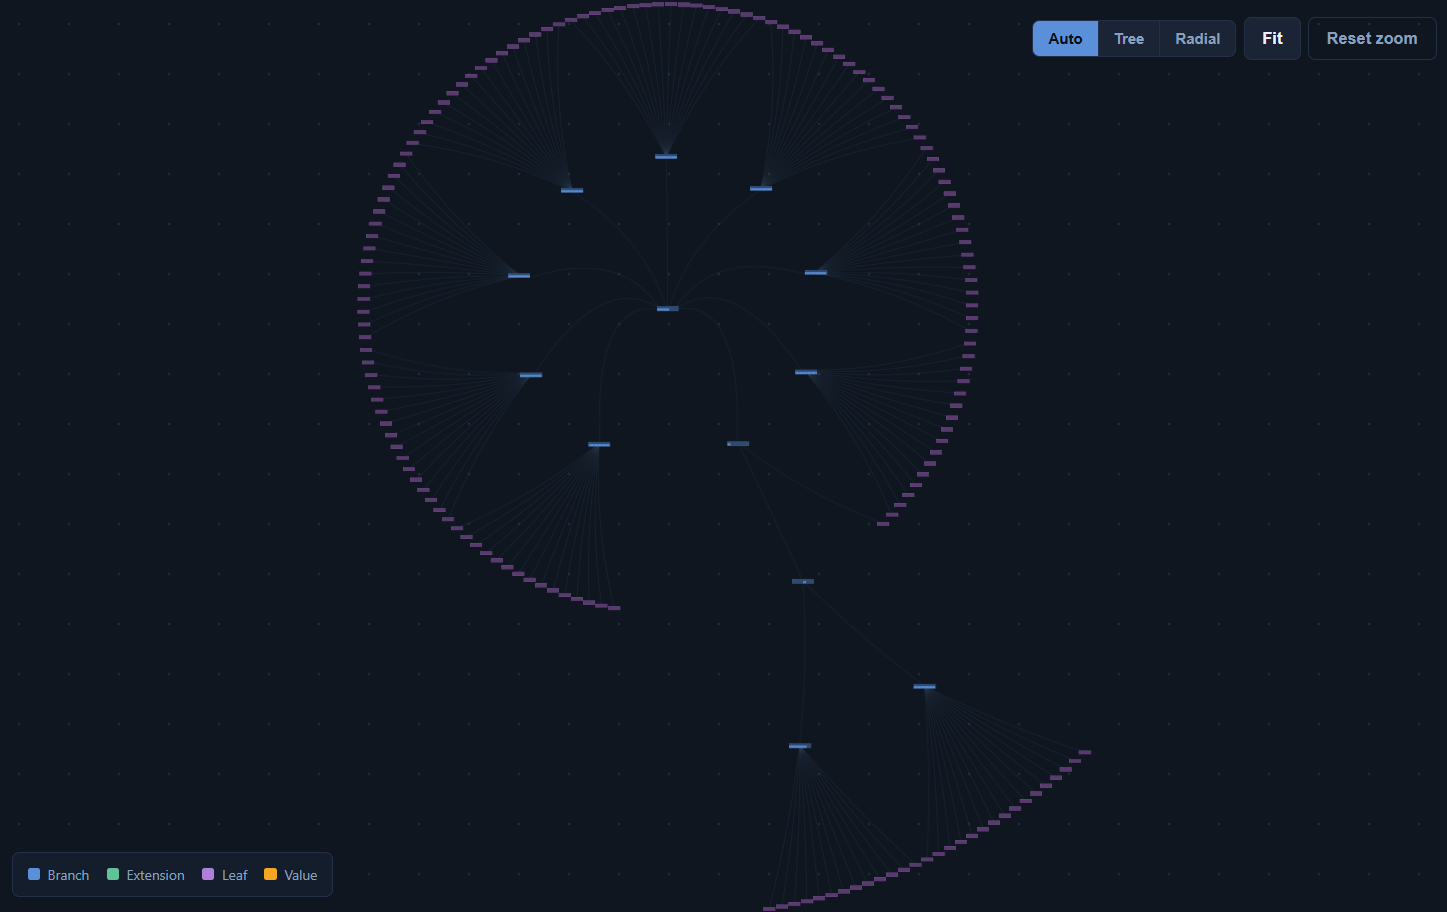
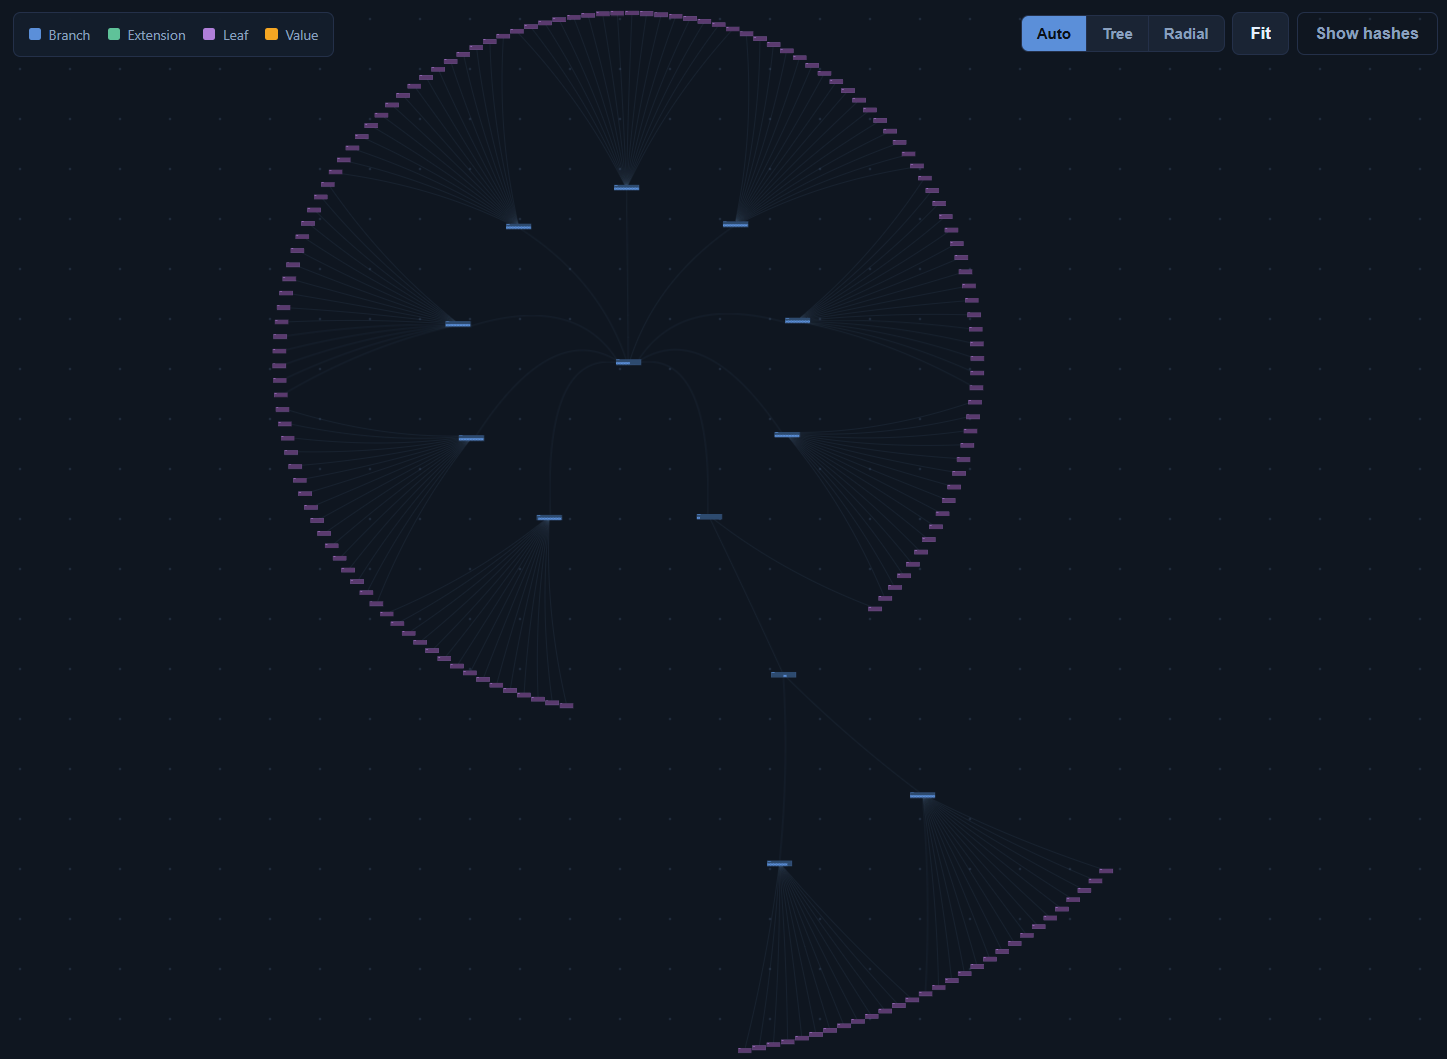
rewrite readme, vendor d3 locally, link readme from ethereum note

diff --git a/index.html b/index.html
@@ -53,8 +53,9 @@
             <div class="panel-body" id="panel-ethereum" hidden>
                 <div class="eth-disabled-note" id="ethNote">
                     Ethereum mode needs the Rust backend running locally (see the
-                    README). Start it, then load a block below — if it's not
-                    running you'll get a "can't reach backend" message.
+                    <a href="https://github.com/medaymann/mpt-visualizer#quickstart" target="_blank" rel="noopener noreferrer">README</a>).
+                    Start it, then load a block below — if it's not running
+                    you'll get a "can't reach backend" message.
                 </div>
                 <label>Block number or hash</label>
                 <input type="text" id="blockInput" placeholder='e.g. 18000000, "latest", or 0x...' value="latest" />
@@ -125,7 +126,7 @@
         </main>
     </div>
 
-    <script src="https://d3js.org/d3.v7.min.js"></script>
+    <script src="./vendor/d3.v7.min.js"></script>
     <script type="module">
         import { boot } from './src/ui/App.js';
         boot();

diff --git a/src/styles.css b/src/styles.css
@@ -90,6 +90,12 @@ html, body {
     line-height: 1.5;
     color: var(--text-dim);
 }
+.eth-disabled-note a {
+    color: inherit;
+    text-decoration: underline;
+    transition: color 0.15s;
+}
+.eth-disabled-note a:hover { color: var(--text); }
 .eth-disabled-note::before {
     content: "!";
     position: absolute;

diff --git a/README.md b/README.md
@@ -1,167 +1,104 @@
+<div align="center">
+
 # MPT Visualizer
 
+<br/>
+
 [![tests](https://github.com/medaymann/mpt-visualizer/actions/workflows/test.yml/badge.svg)](https://github.com/medaymann/mpt-visualizer/actions/workflows/test.yml)
+[![demo](https://img.shields.io/badge/demo-live-3a6ea5)](https://medaymann.github.io/mpt-visualizer/)
 
-An interactive Merkle Patricia Trie explorer with two modes:
+### Interactively build and explore Merkle Patricia Tries<br/>and watch them restructure as you add keys
 
-- **Custom** — build a trie from your own hex-keyed entries and watch
-  how branches, extensions, and leaves form. Runs **entirely in your
-  browser** (JS trie engine), so it works on the static demo with no
-  setup.
-- **Ethereum block** — load any block from Ethereum mainnet, rebuild
-  its transactions trie, and verify the computed root against
-  `block.transactionsRoot` from the block header. This mode needs the
-  **Rust backend** (RPC fetch + canonical RLP for every tx type).
+[About](#about) · [Quickstart](#quickstart) · [Running locally](#running-locally) · [Limitations](#limitations)
 
-The custom-mode JS engine and the Rust backend implement the same
-canonical RLP + keccak trie and produce byte-identical roots — the
-test suite locks the two together.
+</div>
 
-## Live demo
+## About
 
-**<https://medaymann.github.io/mpt-visualizer/>** — custom mode, no setup.
+The Merkle Patricia Trie is one of the harder Ethereum internals to picture: its branches, extensions, and leaves rearrange based on the keys you insert, and every node is tied to its parent by a hash. Reading about it rarely makes it click.
 
-Ethereum mode needs the backend, so it's only available when running
-locally (see [Running](#running)).
+This project makes it tangible, with two modes (both backed by canonical RLP encoding and keccak hashing):
 
----
+- **Custom mode :** build a trie from your own hex keys and values and watch branches, extensions, and leaves appear and split as the keys' prefixes overlap. Runs entirely in your browser. Click a node to see its keccak hash and how parents reference children, and click a leaf to trace its path back to the root.
 
-## Screenshots
+  <div align="center">
+    <img src="assets/custom-mode.png" alt="Custom mode" width="700"><br/>
+    <em>A custom-built trie from hand-entered hex keys.</em>
+  </div>
 
-**Custom mode** — small trie built from hand-entered hex keys.
+  <br/>
+  <br/>
 
-<img src="assets/custom-mode.png" alt="Custom mode" width="600">
+- **Ethereum block mode :** load any mainnet block and rebuild its transactions trie from the raw transactions. The computed root is verified against `block.transactionsRoot` in the block header, so what you see is provably the same trie the chain committed to. Every transaction type is supported (legacy through EIP-7702).
 
-**Ethereum block mode** — transactions trie for block 7,777,777, verified against the on-chain root.
+  <div align="center">
+    <img src="assets/ethereum-mode.png" alt="Ethereum block mode" width="700"><br/>
+    <em>The transactions trie of Ethereum block #7777777.</em>
+  </div>
 
-<img src="assets/ethereum-mode.png" alt="Ethereum block mode" width="600">
+## Quickstart
 
----
+Open the live demo: **<https://medaymann.github.io/mpt-visualizer/>**
 
-## Running
+Custom mode works immediately, nothing to install.
 
-### Custom mode only (no backend)
-
-Custom mode runs fully in-browser. Just serve the static files:
+Ethereum block mode needs the Rust backend. Clone the repo and start the backend; the demo page then uses it automatically:
 
 ```bash
+npm run backend:run        # starts on http://localhost:8081
+```
+
+Then switch to the Ethereum block tab on the live page and load a block.
+
+## Running locally
+
+Clone the repo, then serve the frontend (and the backend for Ethereum mode):
+
+```bash
+# terminal 1 — backend (only needed for Ethereum mode)
+npm run backend:run        # http://localhost:8081
+
+# terminal 2 — frontend
 npm run serve              # http://localhost:8080
 ```
 
-This is exactly what the hosted demo does.
-
-### Both modes (with the Rust backend)
-
-To enable Ethereum-block mode, also run the backend:
-
-```bash
-# terminal 1 — backend on http://localhost:8081
-npm run backend:build      # one-time
-npm run backend:run
-
-# terminal 2 — frontend on http://localhost:8080
-npm run serve
-```
-
-Open <http://localhost:8080>. On `localhost` the frontend assumes the
-backend is on `:8081` and enables Ethereum mode automatically. To point
-at a different backend (e.g. a deployed one), set `window.MPT_BACKEND`
-before the app boots:
-
-```html
-<script>window.MPT_BACKEND = 'https://your-backend.example.com';</script>
-```
-
-When no backend is configured (a plain static host), the Ethereum tab
-is disabled and explains how to enable it; custom mode keeps working.
-
----
-
-## Testing
-
-```bash
-npm test                  # frontend tests: JS keccak, rlp, trie engine, block-id helpers
-npm run backend:test      # backend unit tests (rlp, mpt, rpc)
-npm run backend:verify    # integration tests fetching real blocks
-```
-
-The frontend suite asserts the in-browser JS engine produces the same
-keccak roots as the Rust backend (the expected roots in
-`tests/mpt-engine.test.js` were captured from the backend), so the two
-implementations can't silently drift apart.
-
-`backend:verify` requires internet access and runs the trie against
-several real blocks spanning every transaction-type era: genesis,
-legacy, EIP-2930, EIP-1559, post-merge, and latest. Each test asserts
-that the computed root matches the on-chain `transactionsRoot`.
-
----
-
-## How verification works
-
-**Custom mode** builds the trie in the browser via `src/engine`
-(canonical RLP + keccak, a direct port of the Rust `mpt.rs`/`rlp.rs`).
-There's nothing external to verify against, so it just displays the
-computed root.
-
-**Ethereum mode** (`GET /api/block/:id`) goes through the Rust backend:
-
-1. Re-encode each transaction as canonical RLP. Every tx type is
-   supported: legacy, EIP-2930 (0x01), EIP-1559 (0x02), EIP-4844 blob
-   (0x03), EIP-7702 set-code (0x04).
-2. Insert `(RLP(tx_index), tx_envelope_bytes)` into a Merkle Patricia
-   Trie.
-3. Compute the trie's keccak root and compare to
-   `block.transactionsRoot`.
-4. If the roots don't match, the API returns HTTP 422 and the
-   frontend refuses to render.
-
----
+Open <http://localhost:8080> (Custom mode needs only the frontend; Ethereum mode needs both)
 
 ## Project layout
 
 ```
-backend/                Rust service (Axum)
+backend/                  Rust service (Ethereum mode)
   src/
-    main.rs             HTTP routes, request handling, LRU cache
-    rpc.rs              JSON-RPC client with hedged parallel calls
-    rlp.rs              RLP encoder
-    mpt.rs              Trie insert, hex-prefix encoding, keccak root
-    tx.rs               Canonical RLP for every transaction type
-  tests/
-    verify_real_blocks.rs   Integration tests against live blocks
+    main.rs               HTTP routes, request handling, LRU cache
+    rpc.rs                JSON-RPC client (hedged parallel calls)
+    rlp.rs                RLP encoder
+    mpt.rs                Trie insert, hex-prefix, keccak root
+    tx.rs                 Canonical RLP for every transaction type
+  tests/                  Integration tests against live blocks
 
 src/
-  styles.css            Page styles
-  engine/               In-browser trie engine (custom mode)
-    keccak.js           keccak-256 (Keccak-f[1600])
-    rlp.js              RLP encoder (port of rlp.rs)
-    mpt.js              Trie insert, hex-prefix, keccak root, view tree
-  visualization/        d3/SVG rendering
-    Renderer.js         Pan/zoom, drag, layout selection, level-of-detail,
-                        path highlight, layout-switch animation
-    LayoutEngine.js     Top-down tidy tree
-    RadialLayout.js     Concentric rings (used when the trie is wide)
-    BranchVisual.js, ExtensionVisual.js, LeafVisual.js, VisualNode.js
-    ConnectionManager.js
-    config.js
-  ui/                   Orchestration
-    App.js              Boots everything, wires the page
-    MPTVisualizer.js    Tracks state; custom mode builds via the JS engine
-    EthereumService.js  JS engine for custom mode; HTTP client for blocks
-    stats.js            countNodes() for the sidebar stats panel
-    examples.js         Preset key/value sets shown as chips
-    recentBlocks.js     localStorage-backed history of recently loaded blocks
+  engine/                 In-browser trie engine (custom mode)
+    keccak.js             keccak-256
+    rlp.js                RLP encoder (port of rlp.rs)
+    mpt.js                Trie insert, hex-prefix, keccak root, view tree
+  visualization/          d3/SVG rendering
+    Renderer.js           Pan/zoom, drag, layout, path highlight
+    LayoutEngine.js       Top-down tidy tree
+    RadialLayout.js       Concentric rings for wide tries
+    *Visual.js            Branch / Extension / Leaf node rendering
+    ConnectionManager.js  Edges between nodes
+  ui/                     Orchestration
+    App.js                Boots and wires the page
+    MPTVisualizer.js      Tracks state, drives the renderer
+    EthereumService.js    JS engine (custom) + HTTP client (blocks)
+    examples.js, recentBlocks.js, stats.js
 
-tests/                  Frontend test suite (node --test)
-index.html              Page shell
+tests/                    Frontend tests (node --test)
+index.html                Page shell
 ```
-
----
 
 ## Limitations
 
-- In Ethereum mode, only the **transactions trie** is visualized, not the state or
-  receipts trie. The transactions trie is rebuilt per block from
-  `txs[0..n]` and is small and self-contained. The state trie spans
-  hundreds of millions of accounts and would need an archive node.
+Ethereum mode visualizes the **transactions trie** only, not the state or receipts tries. The state trie spans hundreds of millions of accounts and would need an archive node. Support for the other tries may come later.
+
+Contributions are welcome.